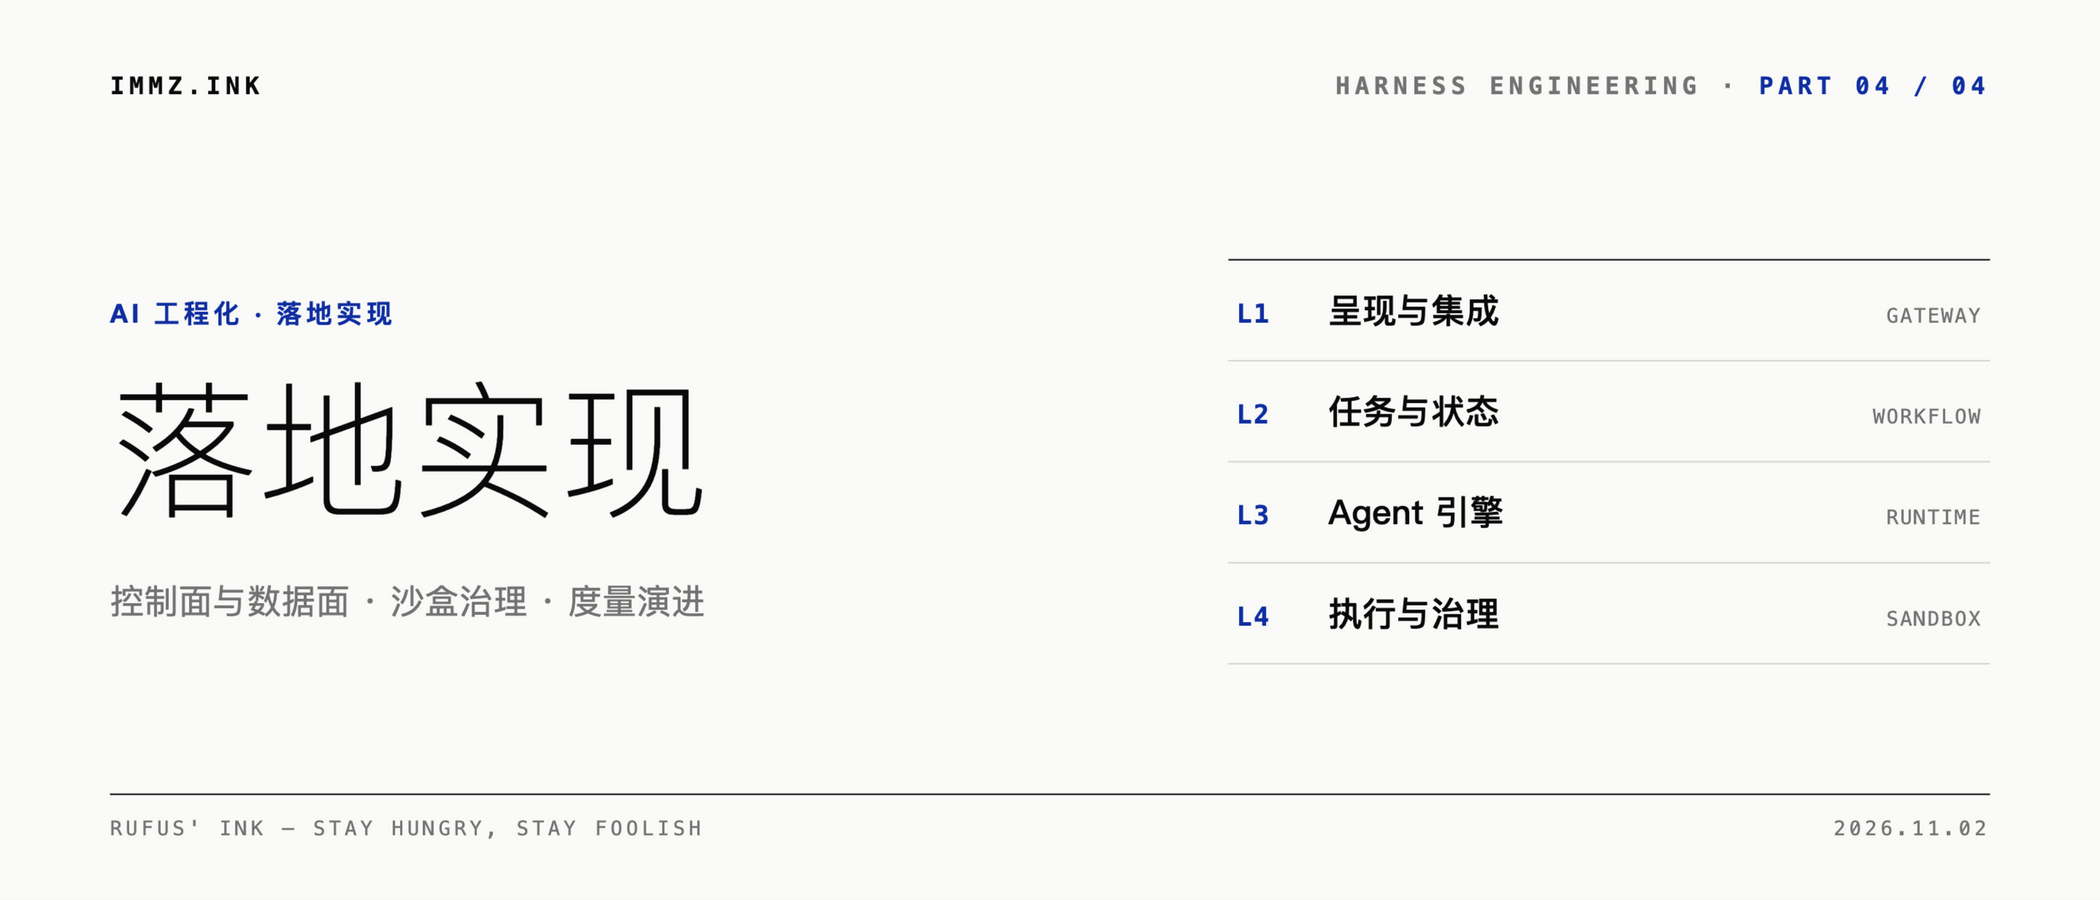
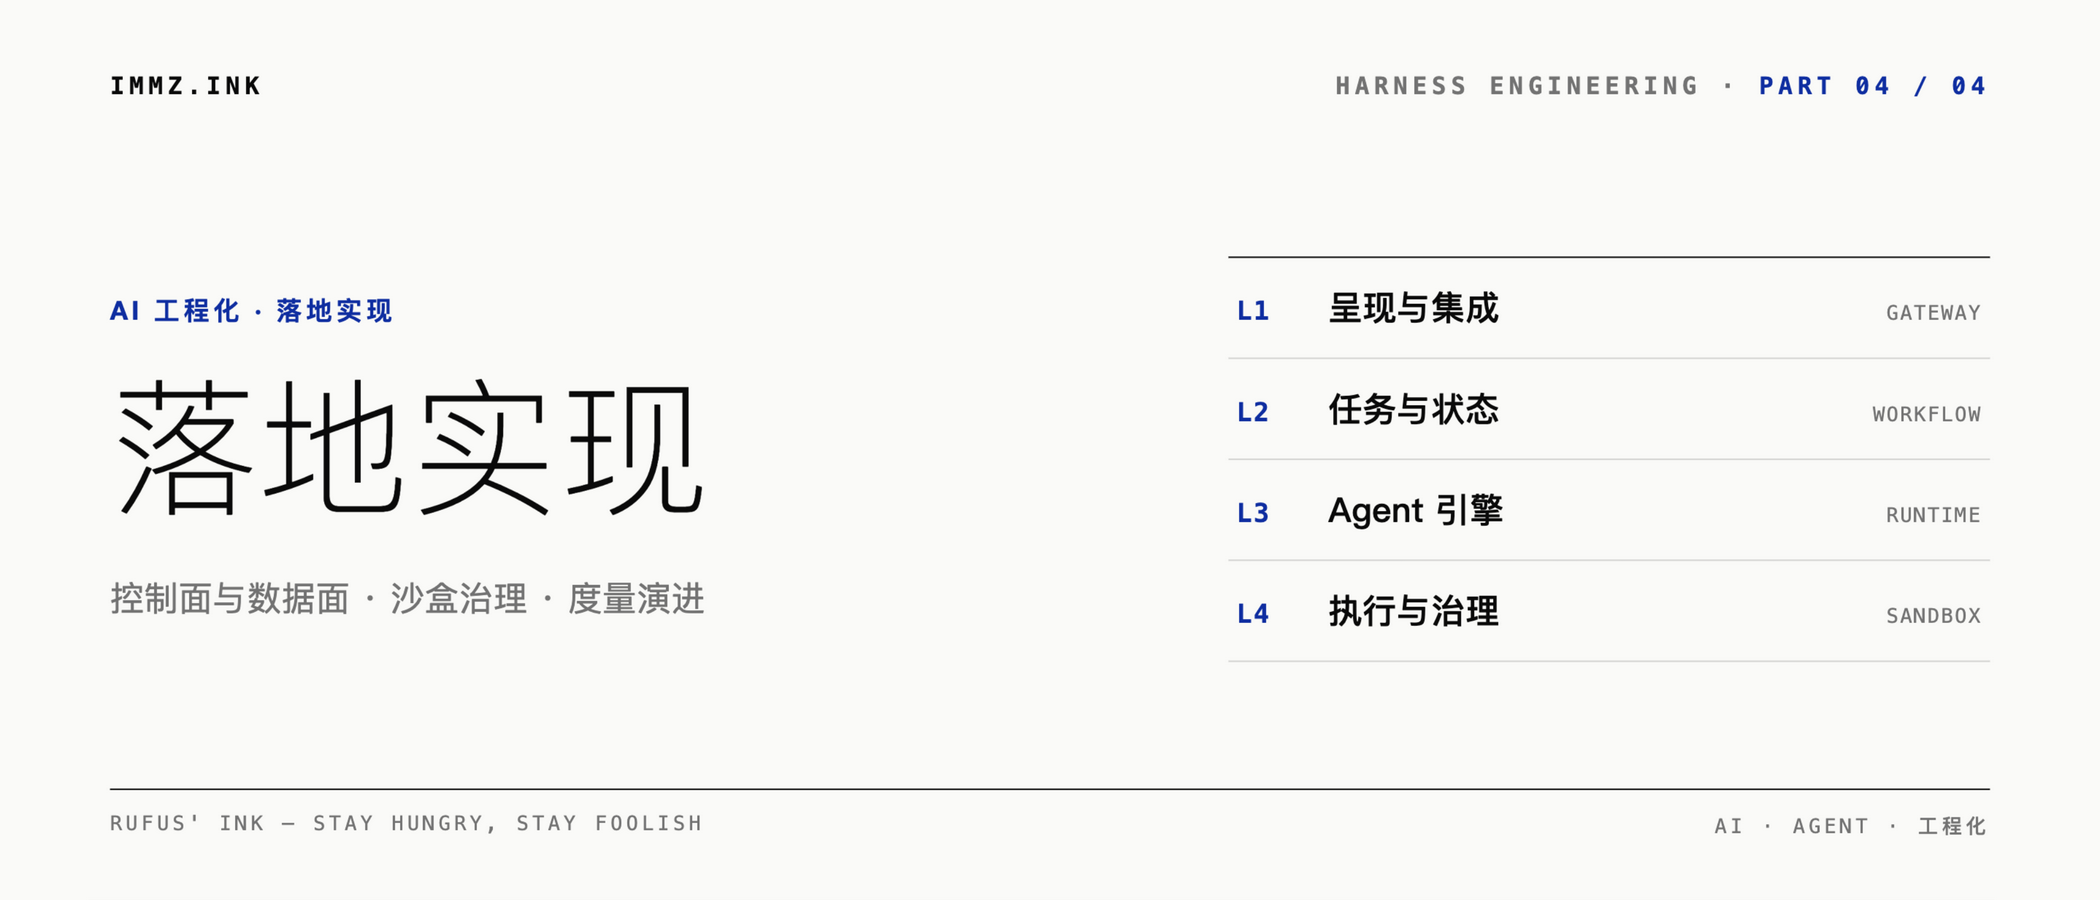
chore: 格式修复

diff --git a/docs/Markdown排版指南.md b/docs/Markdown排版指南.md
@@ -25,7 +25,8 @@
 
 - 每篇文章开头放一条 AI 总结：`> [!NOTE/AI 速读]`，**50 字以内**；
 - 转载/参考他人内容，文末用 `> [!NOTE/出处]` 注明原文链接与整理方式；
-- 新文章发布日期按「每周 2 篇（周一、周四）」错开，避免同天扎堆；
+- 新文章发布日期按「每周 2 篇（周一、周四）」错开，且**不得晚于当天**（不做未来日期排期）；
+- **封面图（heroImage）中不出现日期等时效性信息**，只放标题、系列标记与标签关键词——日期由 frontmatter 管理，避免改期时重绘封面。封面由 guizang-social-card-skill 生成（见 `.zcode/skills/`，生成脚本在 skill 的 `local-tests/blog-covers-2026/`）。
 
 ## 一、基础排版（GFM，开箱即用）
 

diff --git a/src/content/blog/harness-engineering-3.md b/src/content/blog/harness-engineering-3.md
@@ -1,6 +1,6 @@
 ---
 title: Harness Engineering（三）：设计之道——REPL 容器、上下文与 Function Calling
-publishDate: 2026-10-29
+publishDate: 2026-09-10
 description: 在架构层面，Harness 的本质是一个带边界控制的 REPL 容器。本篇讲它的顶层抽象、上下文管理策略、Function Calling 生命周期，以及绕不开的三大约束与六大设计原则。
 tags:
   - AI

diff --git a/src/content/blog/harness-engineering-4.md b/src/content/blog/harness-engineering-4.md
@@ -1,6 +1,6 @@
 ---
 title: Harness Engineering（四）：落地实现——分层架构、沙盒治理与度量演进
-publishDate: 2026-11-02
+publishDate: 2026-09-14
 description: 从实现视角审视 Harness：控制平面与数据平面的四层架构、记忆分层与 Token 转化流水线、沙盒隔离分级、资源弹性策略与四组核心度量指标。
 tags:
   - AI

diff --git a/src/content/blog/harness-engineering-2.md b/src/content/blog/harness-engineering-2.md
@@ -1,6 +1,6 @@
 ---
 title: Harness Engineering（二）：Agent 如何运转——PPAF 循环与四大工程维度
-publishDate: 2026-10-26
+publishDate: 2026-09-07
 description: 一个完备的 Agent 系统，核心是感知、规划、行动、反思的持续循环。本篇拆解 PPAF 循环，以及 Harness 覆盖它的四大工程维度与战略分析矩阵。
 tags:
   - AI

diff --git a/src/content/blog/harness-engineering-1.md b/src/content/blog/harness-engineering-1.md
@@ -1,6 +1,6 @@
 ---
 title: Harness Engineering（一）：给 AI 这匹野马套上缰绳
-publishDate: 2026-10-22
+publishDate: 2026-09-03
 description: Harness Engineering 不是需要焦虑追捧的全新发明，而是对一系列现有工程实践的系统性总结与命名。本篇讲清它的概念来源、核心隐喻，以及我们为什么需要它。
 tags:
   - AI

diff --git a/src/content/blog/turing-complete-2-nand.md b/src/content/blog/turing-complete-2-nand.md
@@ -1,6 +1,6 @@
 ---
 title: 为什么《图灵完备》和真实芯片都从与非门开始
-publishDate: 2026-11-16
+publishDate: 2026-09-28
 description: 《图灵完备》游戏笔记第二篇：与非门是数学上的万能门，也是物理世界里更快更省的主角。从 CMOS 工艺到 NAND Flash，游戏和现实在同一个起点重演。
 tags:
   - 图灵完备

diff --git a/src/content/blog/mcp-tool-design-2.md b/src/content/blog/mcp-tool-design-2.md
@@ -1,6 +1,6 @@
 ---
 title: LLM 如何「看到」你的工具：MCP 工具设计要点
-publishDate: 2026-11-09
+publishDate: 2026-09-21
 description: 从 LLM 原生 Tool Calling 的完整链路，到工具定义的真实形态、工具数量上限，再到命名与描述的具体技巧——设计工具的本质，是设计 Agent 的认知体验。
 tags:
   - AI

diff --git a/src/content/blog/turing-complete-4-karnaugh-map.md b/src/content/blog/turing-complete-4-karnaugh-map.md
@@ -1,6 +1,6 @@
 ---
 title: 卡诺图：把逻辑化简变成圈格子游戏
-publishDate: 2026-11-23
+publishDate: 2026-10-05
 description: 《图灵完备》游戏笔记第四篇：卡诺图的原理、格雷码排布、五条圈组规则，配合三变量、四角环绕、无关项三个实例，把化简变成直观的圈格子。
 tags:
   - 图灵完备

diff --git a/src/content/blog/mcp-tool-design-1.md b/src/content/blog/mcp-tool-design-1.md
@@ -1,6 +1,6 @@
 ---
 title: 为什么技术正确的工具，Agent 却用不好？
-publishDate: 2026-11-05
+publishDate: 2026-09-17
 description: 工具能跑通、Schema 定义正确、API 调用成功，但 Agent 总是选错工具、传错参数。问题不在技术实现，而在我们用写 API 的思维在写 Agent 工具。
 tags:
   - AI

diff --git a/src/content/blog/python-magic-methods.md b/src/content/blog/python-magic-methods.md
@@ -1,6 +1,6 @@
 ---
 title: Python 魔法方法速查：从 __repr__ 谈起
-publishDate: 2026-10-19
+publishDate: 2026-08-31
 description: 魔法方法是 Python 的「钩子」：定义之后由解释器在特定时机自动触发，让你的自定义类支持 print、比较、运算、循环、len、in 等内置操作。
 tags:
   - Python

diff --git a/src/content/blog/turing-complete-3-boolean-algebra.md b/src/content/blog/turing-complete-3-boolean-algebra.md
@@ -1,6 +1,6 @@
 ---
 title: 布尔代数其实是一门算术：定律、推导与化简
-publishDate: 2026-11-19
+publishDate: 2026-10-01
 description: 《图灵完备》游戏笔记第三篇：八条基本定律、三条关键推导、一个完整化简示例。把定律亲手推一遍，化简就只是算术题。
 tags:
   - 图灵完备

diff --git a/src/content/blog/life-levers.md b/src/content/blog/life-levers.md
@@ -1,6 +1,6 @@
 ---
 title: 普通人的四类杠杆：媒体、人才、被动收入与资金
-publishDate: 2026-10-15
+publishDate: 2026-08-27
 description: 内容建立信任，人才放大经验，资产持续赚钱，资金寻找新机会。四类杠杆层层递进，会用杠杆，事情才有可能越做越大。
 tags:
   - 随笔
